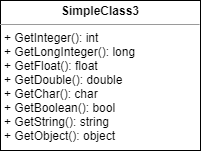
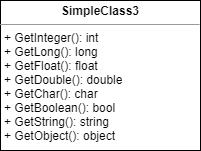
Fix issue with GetLongInteger - replace with GetLong.

Changed region(s): [[0.2985, 0.2914, 0.6866, 0.3974]]

diff --git a/UmlDesignBasics.Tests/SimpleClass3Tests.cs b/UmlDesignBasics.Tests/SimpleClass3Tests.cs
@@ -51,7 +51,7 @@ namespace UmlDesignBasics.Tests
         }
 
         [TestCase("GetInteger", typeof(int), ExpectedResult = int.MaxValue)]
-        [TestCase("GetLongInteger", typeof(long), ExpectedResult = long.MinValue)]
+        [TestCase("GetLong", typeof(long), ExpectedResult = long.MinValue)]
         [TestCase("GetFloat", typeof(float), ExpectedResult = float.Epsilon)]
         [TestCase("GetDouble", typeof(double), ExpectedResult = double.NaN)]
         [TestCase("GetChar", typeof(char), ExpectedResult = 'c')]
